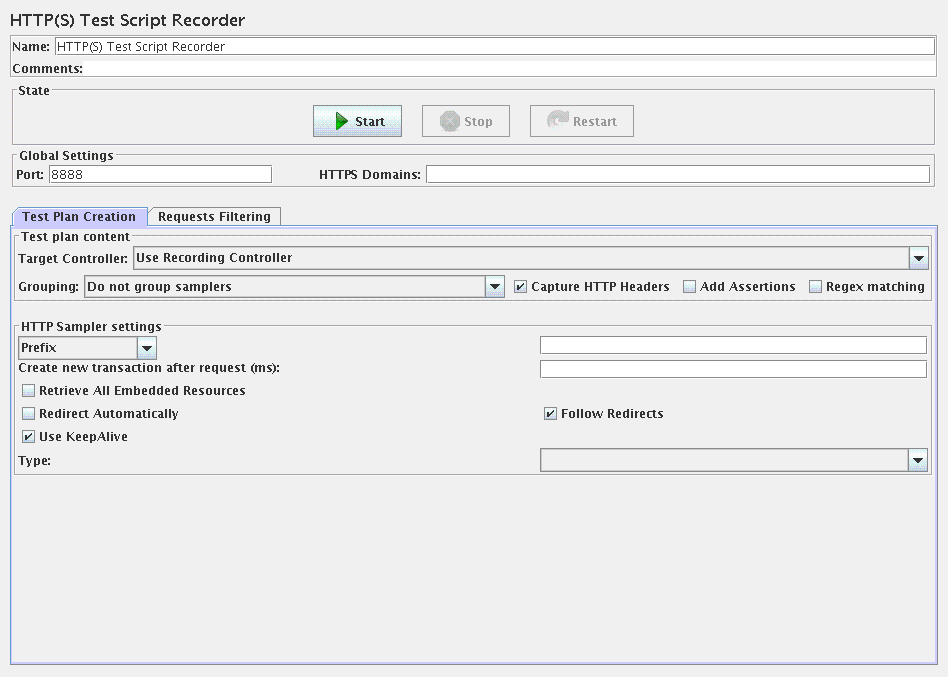
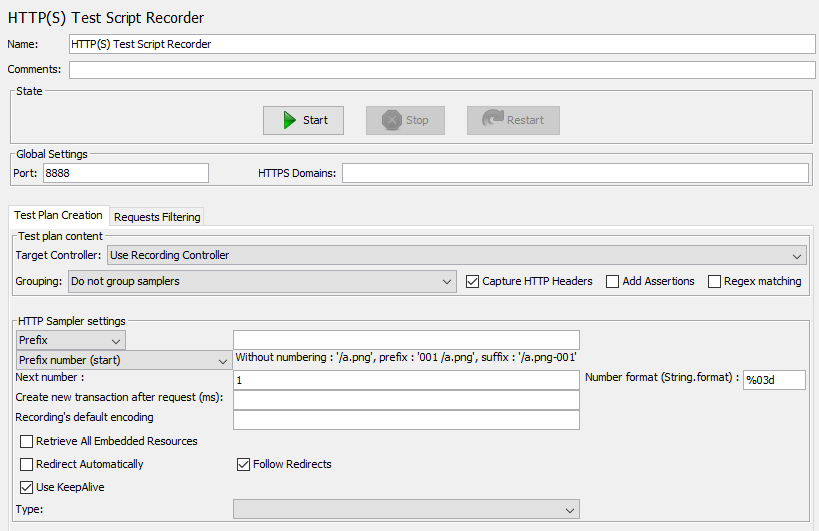
modify code after pmouawad comments and modify documentation for HTTP(S) Test Script Recorder with the sampler name numbering mode

Changed region(s): [[0.0, 0.0, 1.0, 0.9944], [0.3053, 0.8437, 0.3968, 0.904]]

diff --git a/src/protocol/http/src/main/java/org/apache/jmeter/protocol/http/proxy/DefaultSamplerCreator.java b/src/protocol/http/src/main/java/org/apache/jmeter/protocol/http/proxy/DefaultSamplerCreator.java
@@ -6,7 +6,7 @@
  * (the "License"); you may not use this file except in compliance with
  * the License.  You may obtain a copy of the License at
  *
- * http://www.apache.org/licenses/LICENSE-2.0
+ *  http://www.apache.org/licenses/LICENSE-2.0
  *
  * Unless required by applicable law or agreed to in writing, software
  * distributed under the License is distributed on an "AS IS" BASIS,
@@ -35,6 +35,7 @@ import org.apache.commons.lang3.StringUtils;
 import org.apache.jmeter.config.Arguments;
 import org.apache.jmeter.protocol.http.config.MultipartUrlConfig;
 import org.apache.jmeter.protocol.http.control.gui.HttpTestSampleGui;
+import org.apache.jmeter.protocol.http.proxy.ProxyControl.HttpSamplerNumberingMode;
 import org.apache.jmeter.protocol.http.sampler.HTTPSamplerBase;
 import org.apache.jmeter.protocol.http.sampler.HTTPSamplerFactory;
 import org.apache.jmeter.protocol.http.sampler.PostWriter;
@@ -291,21 +292,38 @@ public class DefaultSamplerCreator extends AbstractSamplerCreator {
         int httpSampleNameMode = request.getHttpSampleNameMode();
         if (!HTTPConstants.CONNECT.equals(request.getMethod()) && isNumberRequests()) {
             if(StringUtils.isNotEmpty(prefix)) {
+            	// with a prefix name
                 if (httpSampleNameMode == SAMPLER_NAME_NAMING_MODE_PREFIX) {
+<<<<<<< HEAD
+                    if (HttpSamplerNumberingMode.SUFFIX.getStringMode().equals(getNumberMode())) {
+                        // ppp/img.png-001
+                        sampler.setName(prefix + sampler.getPath() + "-" + formatNumberingInteger(incrementRequestNumberAndGet()));
+                    }
+                    if (HttpSamplerNumberingMode.PREFIX.getStringMode().equals(getNumberMode())) {
+=======
                     if (SAMPLER_NUMBERING_MODE_NAME_SUFFIX.equals(getNumberMode())) {
                         // ppp/img.png-001
                         sampler.setName(prefix + sampler.getPath() + "-" + formatNumberingInteger(incrementRequestNumberAndGet()));
                     }
                     if (SAMPLER_NUMBERING_MODE_NAME_PREFIX.equals(getNumberMode())) {
+>>>>>>> 478ab74d404d48199a5d690bffbd35f061f061e7
                         // ppp-001 /img.png
                         sampler.setName(prefix + "-" + formatNumberingInteger(incrementRequestNumberAndGet()) + " " + sampler.getPath());
                     }
                 } else if (httpSampleNameMode == SAMPLER_NAME_NAMING_MODE_COMPLETE) {
+<<<<<<< HEAD
+                    if (HttpSamplerNumberingMode.SUFFIX.getStringMode().equals(getNumberMode())) {
+                        // ppp-001
+                        sampler.setName(prefix + "-" + formatNumberingInteger(incrementRequestNumberAndGet()));
+                    }
+                    if (HttpSamplerNumberingMode.PREFIX.getStringMode().equals(getNumberMode())) {
+=======
                     if (SAMPLER_NUMBERING_MODE_NAME_SUFFIX.equals(getNumberMode())) {
                         // ppp-001
                         sampler.setName(prefix + "-" + formatNumberingInteger(incrementRequestNumberAndGet()));
                     }
                     if (SAMPLER_NUMBERING_MODE_NAME_PREFIX.equals(getNumberMode())) {
+>>>>>>> 478ab74d404d48199a5d690bffbd35f061f061e7
                         // 001-ppp
                         sampler.setName(formatNumberingInteger(incrementRequestNumberAndGet()) + "-" + prefix);
                     }
@@ -314,17 +332,26 @@ public class DefaultSamplerCreator extends AbstractSamplerCreator {
                 }
             } else {
                 // no prefix name
+<<<<<<< HEAD
+                if (HttpSamplerNumberingMode.SUFFIX.getStringMode().equals(getNumberMode())) {
+                    // /img.png-001
+                    sampler.setName(sampler.getPath() + "-" + formatNumberingInteger(incrementRequestNumberAndGet()));
+                }
+                if (HttpSamplerNumberingMode.PREFIX.getStringMode().equals(getNumberMode())) {
+=======
                 if (SAMPLER_NUMBERING_MODE_NAME_SUFFIX.equals(getNumberMode())) {
                     // /img.png-001
                     sampler.setName(sampler.getPath() + "-" + formatNumberingInteger(incrementRequestNumberAndGet()));
                 }
                 if (SAMPLER_NUMBERING_MODE_NAME_PREFIX.equals(getNumberMode())) {
+>>>>>>> 478ab74d404d48199a5d690bffbd35f061f061e7
                     // 001 /img.png
                     sampler.setName(formatNumberingInteger(incrementRequestNumberAndGet()) + " " + sampler.getPath());
                 }
             }
         } else { // no numbering
             if(StringUtils.isNotEmpty(prefix)) {
+            	// with a prefix name
                 if (httpSampleNameMode == SAMPLER_NAME_NAMING_MODE_PREFIX) {
                     // ppp/img.png
                     sampler.setName(prefix + sampler.getPath());
@@ -478,7 +505,16 @@ public class DefaultSamplerCreator extends AbstractSamplerCreator {
 
     protected String formatNumberingInteger(int iValue) {
         // format like %03d
+<<<<<<< HEAD
+    	String sFormat = getNumberValueFormat();
+    	if (sFormat.length() == 0) {
+    		// the simplest format for an integer
+    		sFormat = "%d";
+    	}
+        String sReturn = String.format(sFormat, iValue);
+=======
         String sReturn = String.format(getNumberValueFormat(), iValue);
+>>>>>>> 478ab74d404d48199a5d690bffbd35f061f061e7
         return sReturn;
     }
 }

diff --git a/src/protocol/http/src/main/java/org/apache/jmeter/protocol/http/proxy/ProxyControl.java b/src/protocol/http/src/main/java/org/apache/jmeter/protocol/http/proxy/ProxyControl.java
@@ -6,7 +6,7 @@
  * (the "License"); you may not use this file except in compliance with
  * the License.  You may obtain a copy of the License at
  *
- * http://www.apache.org/licenses/LICENSE-2.0
+ *  http://www.apache.org/licenses/LICENSE-2.0
  *
  * Unless required by applicable law or agreed to in writing, software
  * distributed under the License is distributed on an "AS IS" BASIS,
@@ -41,6 +41,7 @@ import java.util.LinkedList;
 import java.util.List;
 import java.util.Map;
 import java.util.Set;
+import java.util.concurrent.atomic.AtomicInteger;
 import java.util.prefs.Preferences;
 
 import org.apache.commons.codec.binary.Base64;
@@ -330,8 +331,12 @@ public class ProxyControl extends GenericController implements NonTestElement {
 
         if (HttpSamplerNumberingMode.PREFIX.getStringMode().equals(sNumberingMode)) {
             setHttpSampleNumberingMode(HttpSamplerNumberingMode.PREFIX.getIntValue());
+<<<<<<< HEAD
+        } else if (HttpSamplerNumberingMode.SUFFIX.getStringMode().equals(sNumberingMode)) {
+=======
         }
         if (HttpSamplerNumberingMode.SUFFIX.getStringMode().equals(sNumberingMode)) {
+>>>>>>> 478ab74d404d48199a5d690bffbd35f061f061e7
             setHttpSampleNumberingMode(HttpSamplerNumberingMode.SUFFIX.getIntValue());
         }
 
@@ -415,6 +420,21 @@ public class ProxyControl extends GenericController implements NonTestElement {
     public void setHttpSampleNumberingMode(int httpSampleNumberingMode) {
         
         if (httpSampleNumberingMode == HttpSamplerNumberingMode.PREFIX.getIntValue()) {
+<<<<<<< HEAD
+        	sNumberingMode = HttpSamplerNumberingMode.PREFIX.getStringMode();
+        	JMeterUtils.setProperty("proxy.number.mode", "prefix");
+        	JMeterUtils.setProperty("proxy.number.requests", "true");
+        } else if (httpSampleNumberingMode ==  HttpSamplerNumberingMode.SUFFIX.getIntValue()) {
+            // choose suffix numbering
+        	sNumberingMode =  HttpSamplerNumberingMode.SUFFIX.getStringMode();
+        	JMeterUtils.setProperty("proxy.number.mode", "suffix");
+        	JMeterUtils.setProperty("proxy.number.requests", "true");
+        	
+        } else if (httpSampleNumberingMode == HttpSamplerNumberingMode.NO_NUMBER.getIntValue()) {
+            // choose no numbering
+        	sNumberingMode = HttpSamplerNumberingMode.NO_NUMBER.getStringMode();
+        	JMeterUtils.setProperty("proxy.number.requests", "false");
+=======
         	sNumberingMode = HttpSamplerNumberingMode.PREFIX.getStringMode(); 
         }
         
@@ -426,6 +446,7 @@ public class ProxyControl extends GenericController implements NonTestElement {
         if (httpSampleNumberingMode == HttpSamplerNumberingMode.NO_NUMBER.getIntValue()) {
             // choose no numbering
         	sNumberingMode = HttpSamplerNumberingMode.NO_NUMBER.getStringMode();
+>>>>>>> 478ab74d404d48199a5d690bffbd35f061f061e7
         }
     }
 
@@ -435,7 +456,12 @@ public class ProxyControl extends GenericController implements NonTestElement {
 
     public void setHttpSamplerNumberingStartForSamplerCreator(int httpSamplerNumberingStartValue) {
         iNumberingStartValue =  httpSamplerNumberingStartValue;
+<<<<<<< HEAD
+        
+        // change the numbering start value directly to the AtomicInteger REQUEST_NUMBER in the AbstractSamplerCreator
+=======
 
+>>>>>>> 478ab74d404d48199a5d690bffbd35f061f061e7
         SamplerCreator samplerCreator = samplerCreatorFactory.getDefaultSamplerCreator();
         samplerCreator.setRequestNumber(httpSamplerNumberingStartValue);
     }
@@ -444,6 +470,10 @@ public class ProxyControl extends GenericController implements NonTestElement {
         int iRequestNumber = 1;
         SamplerCreator samplerCreator = samplerCreatorFactory.getDefaultSamplerCreator();
  
+<<<<<<< HEAD
+        // get the current value directly to the AtomicInteger REQUEST_NUMBER in the AbstractSamplerCreator
+=======
+>>>>>>> 478ab74d404d48199a5d690bffbd35f061f061e7
         iRequestNumber = samplerCreator.getRequestNumber();
         iNumberingStartValue = iRequestNumber;
         return iRequestNumber;
@@ -559,9 +589,13 @@ public class ProxyControl extends GenericController implements NonTestElement {
     public int getHttpSampleNumberingMode() {
     	if (HttpSamplerNumberingMode.PREFIX.getStringMode().equals(sNumberingMode)) {
     		return HttpSamplerNumberingMode.PREFIX.getIntValue();
+<<<<<<< HEAD
+    	} else if (HttpSamplerNumberingMode.SUFFIX.getStringMode().equals(sNumberingMode)) {
+=======
     	}
     	
     	if (HttpSamplerNumberingMode.SUFFIX.getStringMode().equals(sNumberingMode)) {
+>>>>>>> 478ab74d404d48199a5d690bffbd35f061f061e7
     		return HttpSamplerNumberingMode.SUFFIX.getIntValue();
     	}
     	else {

diff --git a/src/protocol/http/src/main/java/org/apache/jmeter/protocol/http/proxy/gui/ProxyControlGui.java b/src/protocol/http/src/main/java/org/apache/jmeter/protocol/http/proxy/gui/ProxyControlGui.java
@@ -6,7 +6,7 @@
  * (the "License"); you may not use this file except in compliance with
  * the License.  You may obtain a copy of the License at
  *
- * http://www.apache.org/licenses/LICENSE-2.0
+ *  http://www.apache.org/licenses/LICENSE-2.0
  *
  * Unless required by applicable law or agreed to in writing, software
  * distributed under the License is distributed on an "AS IS" BASIS,
@@ -337,7 +337,16 @@ public class ProxyControlGui extends LogicControllerGui implements JMeterGUIComp
             model.setHTTPSampleNamingMode(httpSampleNamingMode.getSelectedIndex());
 
             model.setHttpSampleNumberingMode(httpSampleNumberingMode.getSelectedIndex());
+<<<<<<< HEAD
+            
+            int iStartValue = 1;
+            String sStartValue = httpSamplerNumberingStartValue.getText();
+            if (sStartValue.length() > 0) {
+            	iStartValue = Integer.parseInt(httpSamplerNumberingStartValue.getText());
+            }
+=======
             int iStartValue = Integer.parseInt(httpSamplerNumberingStartValue.getText());
+>>>>>>> 478ab74d404d48199a5d690bffbd35f061f061e7
             model.setHttpSamplerNumberingStartValue(iStartValue);
             model.setHttpSamplerNumberingIntegerFormat(httpSamplerNumberingIntegerFormat.getText());
 
@@ -447,6 +456,13 @@ public class ProxyControlGui extends LogicControllerGui implements JMeterGUIComp
             JComboBox combo = (JComboBox) e.getSource();
             if(HTTP_SAMPLER_NAMING_MODE.equals(combo.getName())) {
                 model.setHTTPSampleNamingMode(httpSampleNamingMode.getSelectedIndex());
+<<<<<<< HEAD
+            }
+
+            if(HTTP_SAMPLER_NUMBERING_MODE.equals(combo.getName())) {
+                model.setHttpSampleNumberingMode(httpSampleNumberingMode.getSelectedIndex());
+            }
+=======
             }
 
             if(HTTP_SAMPLER_NUMBERING_MODE.equals(combo.getName())) {
@@ -463,6 +479,7 @@ public class ProxyControlGui extends LogicControllerGui implements JMeterGUIComp
                 	JMeterUtils.setProperty("proxy.number.requests", "false");
                 }
             }
+>>>>>>> 478ab74d404d48199a5d690bffbd35f061f061e7
         }
         else {
             enableRestart();
@@ -785,10 +802,24 @@ public class ProxyControlGui extends LogicControllerGui implements JMeterGUIComp
                             JMeterUtils.getResString("sample_numbering_start_value_error_invalid_data"), // $NON-NLS-1$
                             JOptionPane.WARNING_MESSAGE);
                     // Drop the last character:
+<<<<<<< HEAD
+                    String sNextNumber = httpSamplerNumberingStartValue.getText().substring(0, length - 1);
+                    if (sNextNumber.length() == 0) {
+                    	// if no more character set to "1"
+                    	sNextNumber = "1";
+                    }
+                    httpSamplerNumberingStartValue.setText(sNextNumber);
+                }
+            }
+            if (httpSamplerNumberingStartValue.getText().length() > 0) {
+            	model.setHttpSamplerNumberingStartValue(Integer.parseInt(httpSamplerNumberingStartValue.getText()));
+            }
+=======
                     httpSamplerNumberingStartValue.setText(httpSamplerNumberingStartValue.getText().substring(0, length - 1));
                 }
             }
             model.setHttpSamplerNumberingStartValue(Integer.parseInt(httpSamplerNumberingStartValue.getText()));
+>>>>>>> 478ab74d404d48199a5d690bffbd35f061f061e7
             enableRestart();
         } else if(fieldName.equals(PROXY_PAUSE_HTTP_SAMPLER)) {
             try {

diff --git a/src/protocol/http/src/main/java/org/apache/jmeter/protocol/http/proxy/AbstractSamplerCreator.java b/src/protocol/http/src/main/java/org/apache/jmeter/protocol/http/proxy/AbstractSamplerCreator.java
@@ -52,11 +52,14 @@ public abstract class AbstractSamplerCreator implements SamplerCreator {
         JMeterUtils.getPropDefault("proxy.binary.directory",// $NON-NLS-1$
                 System.getProperty("user.dir")); // $NON-NLS-1$ proxy.binary.fileType=binary
 
+<<<<<<< HEAD
+=======
     /*
      * Optionally number the requests
      */
     private final boolean NUMBER_REQUESTS =
         JMeterUtils.getPropDefault("proxy.number.requests", true); // $NON-NLS-1$
+>>>>>>> 478ab74d404d48199a5d690bffbd35f061f061e7
 
     /*
      *  numbering mode : prefix or suffix
@@ -70,7 +73,6 @@ public abstract class AbstractSamplerCreator implements SamplerCreator {
 
     private static AtomicInteger REQUEST_NUMBER = new AtomicInteger(0);// running number
 
-
     static {
         String binaries = JMeterUtils.getPropDefault("proxy.binary.types", // $NON-NLS-1$
                 "application/x-amf,application/x-java-serialized-object,binary/octet-stream"); // $NON-NLS-1$
@@ -82,10 +84,6 @@ public abstract class AbstractSamplerCreator implements SamplerCreator {
         }
     }
 
-
-    /**
-     *
-     */
     /**
      *
      */
@@ -102,7 +100,11 @@ public abstract class AbstractSamplerCreator implements SamplerCreator {
 
     /**
      * set the RequestNumber to a specify value
+<<<<<<< HEAD
+     * @param iValue the current number
+=======
      * @param iValue
+>>>>>>> 478ab74d404d48199a5d690bffbd35f061f061e7
      */
     public void setRequestNumber(int iValue) {
         REQUEST_NUMBER.set(iValue);

diff --git a/src/protocol/http/src/main/java/org/apache/jmeter/protocol/http/proxy/SamplerCreator.java b/src/protocol/http/src/main/java/org/apache/jmeter/protocol/http/proxy/SamplerCreator.java
@@ -6,7 +6,7 @@
  * (the "License"); you may not use this file except in compliance with
  * the License.  You may obtain a copy of the License at
  *
- * http://www.apache.org/licenses/LICENSE-2.0
+ *  http://www.apache.org/licenses/LICENSE-2.0
  *
  * Unless required by applicable law or agreed to in writing, software
  * distributed under the License is distributed on an "AS IS" BASIS,
@@ -95,9 +95,16 @@ public interface SamplerCreator {
     List<TestElement> createChildren(HTTPSamplerBase sampler, SampleResult result);
     
     /**
+<<<<<<< HEAD
+     * Set the current numbering value
+     * @param startValue the current numbering value
+     */
+    void setRequestNumber(int startValue);
+=======
      * Set the current record request number
      */
     void setRequestNumber(int starValue);
+>>>>>>> 478ab74d404d48199a5d690bffbd35f061f061e7
     
     /**
      * Get the current record request number
